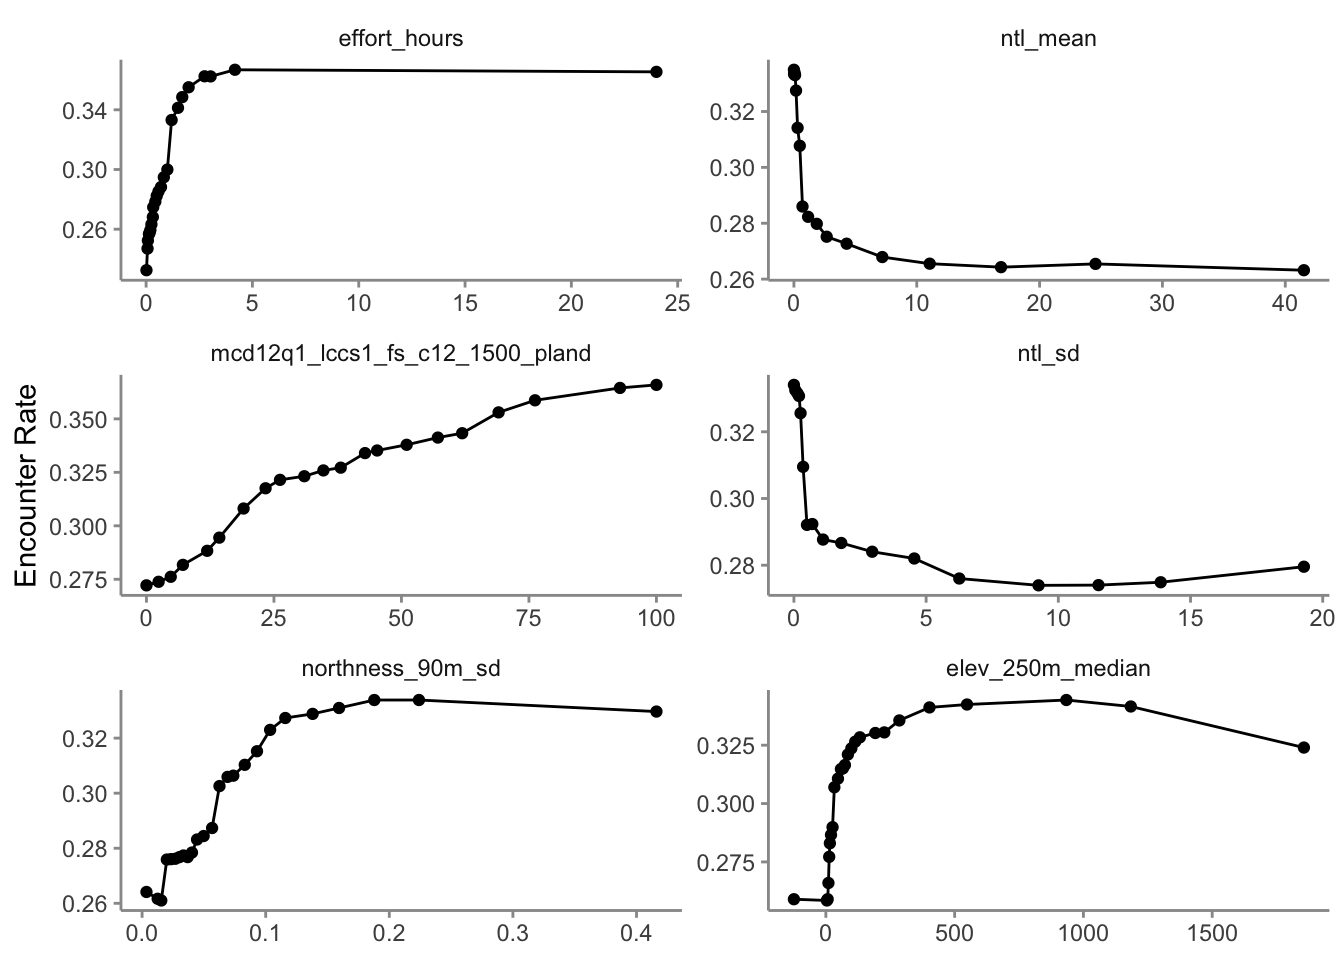
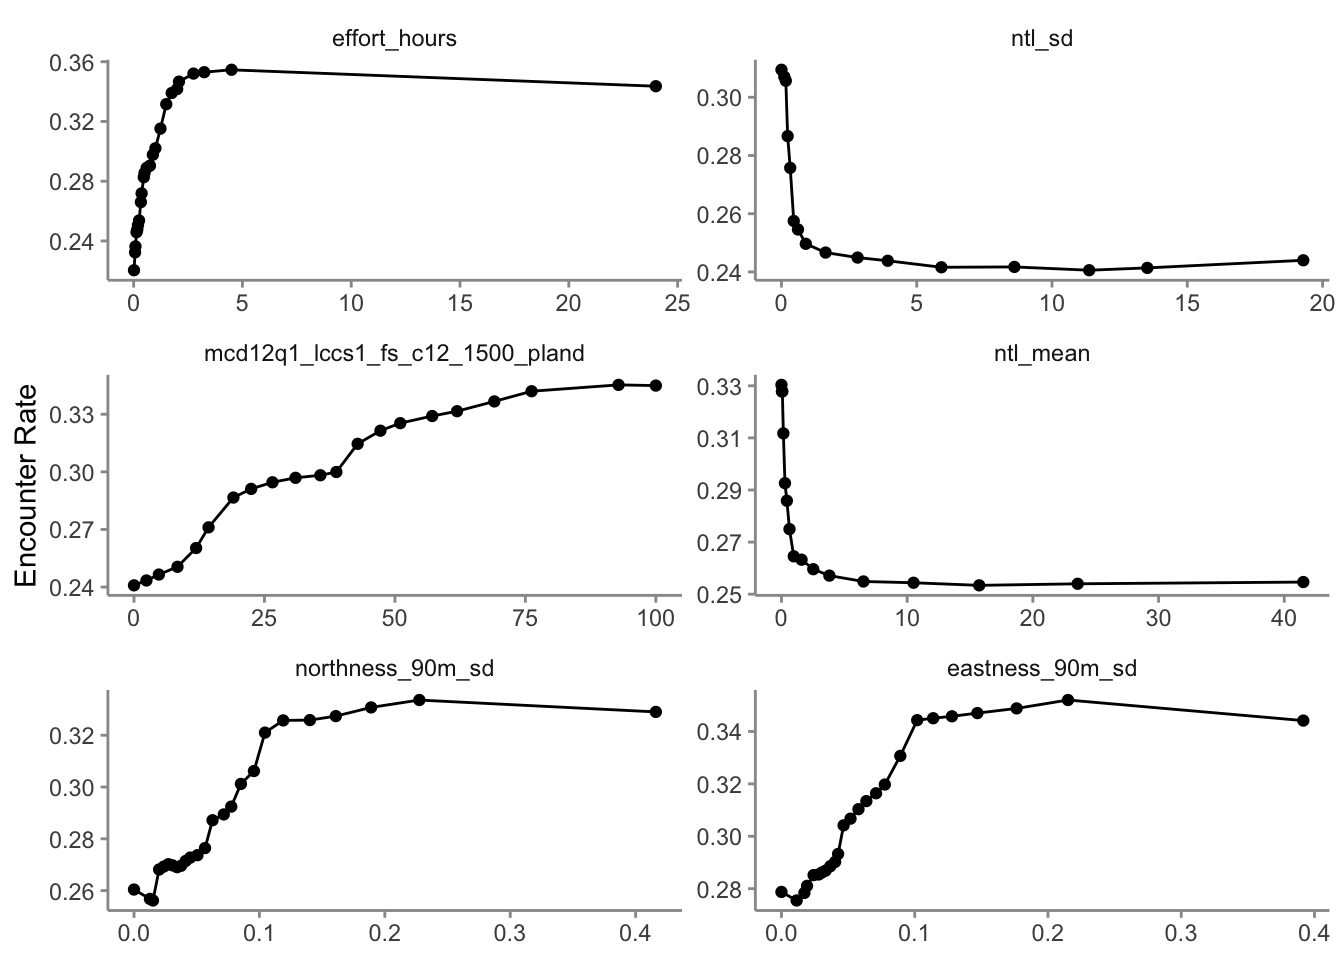
rerender

diff --git a/docs/abundance.html b/docs/abundance.html
@@ -256,22 +256,25 @@ code span.wa { color: #60a0b0; font-weight: bold; font-style: italic; } /* Warni
 <span id="cb1-11"><a href="#cb1-11" aria-hidden="true" tabindex="-1"></a><span class="fu">library</span>(sf)</span>
 <span id="cb1-12"><a href="#cb1-12" aria-hidden="true" tabindex="-1"></a><span class="fu">library</span>(terra)</span>
 <span id="cb1-13"><a href="#cb1-13" aria-hidden="true" tabindex="-1"></a></span>
-<span id="cb1-14"><a href="#cb1-14" aria-hidden="true" tabindex="-1"></a><span class="co"># detections</span></span>
-<span id="cb1-15"><a href="#cb1-15" aria-hidden="true" tabindex="-1"></a>observations <span class="ot">&lt;-</span> <span class="fu">read_parquet</span>(<span class="st">"data/ebird_observations_chile_2021.parquet"</span>) <span class="sc">%&gt;%</span> </span>
-<span id="cb1-16"><a href="#cb1-16" aria-hidden="true" tabindex="-1"></a>  <span class="fu">filter</span>(species_code <span class="sc">==</span> <span class="st">"chutap1"</span>) <span class="sc">%&gt;%</span> </span>
-<span id="cb1-17"><a href="#cb1-17" aria-hidden="true" tabindex="-1"></a>  <span class="fu">select</span>(checklist_id, valid, obs_count) <span class="sc">%&gt;%</span> </span>
-<span id="cb1-18"><a href="#cb1-18" aria-hidden="true" tabindex="-1"></a>  <span class="fu">mutate</span>(<span class="at">obs_detected =</span> 1L)</span>
-<span id="cb1-19"><a href="#cb1-19" aria-hidden="true" tabindex="-1"></a></span>
-<span id="cb1-20"><a href="#cb1-20" aria-hidden="true" tabindex="-1"></a><span class="co"># zero filled checklists</span></span>
-<span id="cb1-21"><a href="#cb1-21" aria-hidden="true" tabindex="-1"></a>checklists <span class="ot">&lt;-</span> <span class="fu">read_parquet</span>(<span class="st">"data/ebird_checklists_chile_2021.parquet"</span>) <span class="sc">%&gt;%</span></span>
-<span id="cb1-22"><a href="#cb1-22" aria-hidden="true" tabindex="-1"></a>  <span class="fu">left_join</span>(observations, <span class="at">by =</span> <span class="st">"checklist_id"</span>) <span class="sc">%&gt;%</span> </span>
-<span id="cb1-23"><a href="#cb1-23" aria-hidden="true" tabindex="-1"></a>  <span class="fu">filter</span>(<span class="fu">is.na</span>(valid) <span class="sc">|</span> valid <span class="sc">==</span> <span class="dv">1</span>) <span class="sc">%&gt;%</span> </span>
-<span id="cb1-24"><a href="#cb1-24" aria-hidden="true" tabindex="-1"></a>  <span class="fu">mutate</span>(</span>
-<span id="cb1-25"><a href="#cb1-25" aria-hidden="true" tabindex="-1"></a>    <span class="co"># checklist not in the observations dataset are non-detections</span></span>
-<span id="cb1-26"><a href="#cb1-26" aria-hidden="true" tabindex="-1"></a>    <span class="at">obs_detected =</span> <span class="fu">coalesce</span>(obs_detected <span class="sc">==</span> <span class="dv">1</span>, 0L),</span>
-<span id="cb1-27"><a href="#cb1-27" aria-hidden="true" tabindex="-1"></a>    <span class="co"># non-detections correspond to a count of 0</span></span>
-<span id="cb1-28"><a href="#cb1-28" aria-hidden="true" tabindex="-1"></a>    <span class="at">obs_count =</span> <span class="fu">ifelse</span>(obs_detected <span class="sc">==</span> <span class="dv">1</span>, obs_count, <span class="dv">0</span>)</span>
-<span id="cb1-29"><a href="#cb1-29" aria-hidden="true" tabindex="-1"></a>  )</span></code><button title="Copy to Clipboard" class="code-copy-button"><i class="bi"></i></button></pre></div>
+<span id="cb1-14"><a href="#cb1-14" aria-hidden="true" tabindex="-1"></a><span class="co"># set seed for reproducibility</span></span>
+<span id="cb1-15"><a href="#cb1-15" aria-hidden="true" tabindex="-1"></a><span class="fu">set.seed</span>(<span class="dv">1</span>)</span>
+<span id="cb1-16"><a href="#cb1-16" aria-hidden="true" tabindex="-1"></a></span>
+<span id="cb1-17"><a href="#cb1-17" aria-hidden="true" tabindex="-1"></a><span class="co"># detections</span></span>
+<span id="cb1-18"><a href="#cb1-18" aria-hidden="true" tabindex="-1"></a>observations <span class="ot">&lt;-</span> <span class="fu">read_parquet</span>(<span class="st">"data/ebird_observations_chile_2021.parquet"</span>) <span class="sc">%&gt;%</span> </span>
+<span id="cb1-19"><a href="#cb1-19" aria-hidden="true" tabindex="-1"></a>  <span class="fu">filter</span>(species_code <span class="sc">==</span> <span class="st">"chutap1"</span>) <span class="sc">%&gt;%</span> </span>
+<span id="cb1-20"><a href="#cb1-20" aria-hidden="true" tabindex="-1"></a>  <span class="fu">select</span>(checklist_id, valid, obs_count) <span class="sc">%&gt;%</span> </span>
+<span id="cb1-21"><a href="#cb1-21" aria-hidden="true" tabindex="-1"></a>  <span class="fu">mutate</span>(<span class="at">obs_detected =</span> 1L)</span>
+<span id="cb1-22"><a href="#cb1-22" aria-hidden="true" tabindex="-1"></a></span>
+<span id="cb1-23"><a href="#cb1-23" aria-hidden="true" tabindex="-1"></a><span class="co"># zero filled checklists</span></span>
+<span id="cb1-24"><a href="#cb1-24" aria-hidden="true" tabindex="-1"></a>checklists <span class="ot">&lt;-</span> <span class="fu">read_parquet</span>(<span class="st">"data/ebird_checklists_chile_2021.parquet"</span>) <span class="sc">%&gt;%</span></span>
+<span id="cb1-25"><a href="#cb1-25" aria-hidden="true" tabindex="-1"></a>  <span class="fu">left_join</span>(observations, <span class="at">by =</span> <span class="st">"checklist_id"</span>) <span class="sc">%&gt;%</span> </span>
+<span id="cb1-26"><a href="#cb1-26" aria-hidden="true" tabindex="-1"></a>  <span class="fu">filter</span>(<span class="fu">is.na</span>(valid) <span class="sc">|</span> valid <span class="sc">==</span> <span class="dv">1</span>) <span class="sc">%&gt;%</span> </span>
+<span id="cb1-27"><a href="#cb1-27" aria-hidden="true" tabindex="-1"></a>  <span class="fu">mutate</span>(</span>
+<span id="cb1-28"><a href="#cb1-28" aria-hidden="true" tabindex="-1"></a>    <span class="co"># checklist not in the observations dataset are non-detections</span></span>
+<span id="cb1-29"><a href="#cb1-29" aria-hidden="true" tabindex="-1"></a>    <span class="at">obs_detected =</span> <span class="fu">coalesce</span>(obs_detected <span class="sc">==</span> <span class="dv">1</span>, 0L),</span>
+<span id="cb1-30"><a href="#cb1-30" aria-hidden="true" tabindex="-1"></a>    <span class="co"># non-detections correspond to a count of 0</span></span>
+<span id="cb1-31"><a href="#cb1-31" aria-hidden="true" tabindex="-1"></a>    <span class="at">obs_count =</span> <span class="fu">ifelse</span>(obs_detected <span class="sc">==</span> <span class="dv">1</span>, obs_count, <span class="dv">0</span>)</span>
+<span id="cb1-32"><a href="#cb1-32" aria-hidden="true" tabindex="-1"></a>  )</span></code><button title="Copy to Clipboard" class="code-copy-button"><i class="bi"></i></button></pre></div>
 </div>
 <p>Next let’s subset the data to only observations from January and February, summer months during which we expect detectability and habitat associations to be stationary. To reduce variation in detecatbility, we’ll also subset the data to only those checklists less than 24 hours in duration and 10km in length, at speeds below 100km/h, and with 10 or fewer observers. Furthermore, we’ll only consider data from the past 10 years (2007-2021).</p>
 <div class="cell" data-layout-align="center">
@@ -309,7 +312,7 @@ code span.wa { color: #60a0b0; font-weight: bold; font-style: italic; } /* Warni
 <span id="cb4-3"><a href="#cb4-3" aria-hidden="true" tabindex="-1"></a><span class="fu">table</span>(checklists<span class="sc">$</span>type) <span class="sc">/</span> <span class="fu">nrow</span>(checklists)</span>
 <span id="cb4-4"><a href="#cb4-4" aria-hidden="true" tabindex="-1"></a><span class="co">#&gt; </span></span>
 <span id="cb4-5"><a href="#cb4-5" aria-hidden="true" tabindex="-1"></a><span class="co">#&gt;  test train </span></span>
-<span id="cb4-6"><a href="#cb4-6" aria-hidden="true" tabindex="-1"></a><span class="co">#&gt; 0.192 0.808</span></span></code><button title="Copy to Clipboard" class="code-copy-button"><i class="bi"></i></button></pre></div>
+<span id="cb4-6"><a href="#cb4-6" aria-hidden="true" tabindex="-1"></a><span class="co">#&gt; 0.208 0.792</span></span></code><button title="Copy to Clipboard" class="code-copy-button"><i class="bi"></i></button></pre></div>
 </div>
 </section>
 <section id="sec-abundance-data-sampling" class="level3" data-number="2.1.2">
@@ -335,14 +338,14 @@ code span.wa { color: #60a0b0; font-weight: bold; font-style: italic; } /* Warni
 <span id="cb6-11"><a href="#cb6-11" aria-hidden="true" tabindex="-1"></a></span>
 <span id="cb6-12"><a href="#cb6-12" aria-hidden="true" tabindex="-1"></a><span class="co"># after sampling</span></span>
 <span id="cb6-13"><a href="#cb6-13" aria-hidden="true" tabindex="-1"></a><span class="fu">nrow</span>(checklists_sampled)</span>
-<span id="cb6-14"><a href="#cb6-14" aria-hidden="true" tabindex="-1"></a><span class="co">#&gt; [1] 3169</span></span>
+<span id="cb6-14"><a href="#cb6-14" aria-hidden="true" tabindex="-1"></a><span class="co">#&gt; [1] 3187</span></span>
 <span id="cb6-15"><a href="#cb6-15" aria-hidden="true" tabindex="-1"></a><span class="fu">count</span>(checklists_sampled, obs_detected) <span class="sc">%&gt;%</span> </span>
 <span id="cb6-16"><a href="#cb6-16" aria-hidden="true" tabindex="-1"></a>  <span class="fu">mutate</span>(<span class="at">percent =</span> n <span class="sc">/</span> <span class="fu">sum</span>(n))</span>
 <span id="cb6-17"><a href="#cb6-17" aria-hidden="true" tabindex="-1"></a><span class="co">#&gt; # A tibble: 2 × 3</span></span>
 <span id="cb6-18"><a href="#cb6-18" aria-hidden="true" tabindex="-1"></a><span class="co">#&gt;   obs_detected     n percent</span></span>
 <span id="cb6-19"><a href="#cb6-19" aria-hidden="true" tabindex="-1"></a><span class="co">#&gt;          &lt;int&gt; &lt;int&gt;   &lt;dbl&gt;</span></span>
-<span id="cb6-20"><a href="#cb6-20" aria-hidden="true" tabindex="-1"></a><span class="co">#&gt; 1            0  2141   0.676</span></span>
-<span id="cb6-21"><a href="#cb6-21" aria-hidden="true" tabindex="-1"></a><span class="co">#&gt; 2            1  1028   0.324</span></span></code><button title="Copy to Clipboard" class="code-copy-button"><i class="bi"></i></button></pre></div>
+<span id="cb6-20"><a href="#cb6-20" aria-hidden="true" tabindex="-1"></a><span class="co">#&gt; 1            0  2139   0.671</span></span>
+<span id="cb6-21"><a href="#cb6-21" aria-hidden="true" tabindex="-1"></a><span class="co">#&gt; 2            1  1048   0.329</span></span></code><button title="Copy to Clipboard" class="code-copy-button"><i class="bi"></i></button></pre></div>
 </div>
 <p>So, the case controlled sampling <em>decreased</em> the overall number of checklists by a factor , but <em>increased</em> the prevalence of detections. This increase in detections will help the random forests model distinguish where birds are being observed; however, this does affect the prevalence rate of the detections in the data. As a result, the estimated encounter rate based on these subsampled data will be larger than the true encounter rate. When examining the outputs from the models it will be important to recall that we altered the prevalence rate at this stage.</p>
 </section>
@@ -410,7 +413,7 @@ code span.wa { color: #60a0b0; font-weight: bold; font-style: italic; } /* Warni
 <span id="cb11-4"><a href="#cb11-4" aria-hidden="true" tabindex="-1"></a><span class="co"># identify best threshold</span></span>
 <span id="cb11-5"><a href="#cb11-5" aria-hidden="true" tabindex="-1"></a>mcc_f1_summary <span class="ot">&lt;-</span> <span class="fu">summary</span>(mcc_f1)</span>
 <span id="cb11-6"><a href="#cb11-6" aria-hidden="true" tabindex="-1"></a><span class="co">#&gt;  mccf1_metric best_threshold</span></span>
-<span id="cb11-7"><a href="#cb11-7" aria-hidden="true" tabindex="-1"></a><span class="co">#&gt;         0.512          0.439</span></span>
+<span id="cb11-7"><a href="#cb11-7" aria-hidden="true" tabindex="-1"></a><span class="co">#&gt;         0.518          0.473</span></span>
 <span id="cb11-8"><a href="#cb11-8" aria-hidden="true" tabindex="-1"></a>threshold <span class="ot">&lt;-</span> mcc_f1_summary<span class="sc">$</span>best_threshold[<span class="dv">1</span>]</span></code><button title="Copy to Clipboard" class="code-copy-button"><i class="bi"></i></button></pre></div>
 </div>
 </section>
@@ -539,14 +542,14 @@ code span.wa { color: #60a0b0; font-weight: bold; font-style: italic; } /* Warni
 </thead>
 <tbody>
 <tr class="odd">
-<td style="text-align: right;">0.128</td>
-<td style="text-align: right;">0.422</td>
-<td style="text-align: right;">0.844</td>
-<td style="text-align: right;">0.745</td>
-<td style="text-align: right;">0.531</td>
-<td style="text-align: right;">0.573</td>
-<td style="text-align: right;">0.55</td>
-<td style="text-align: right;">0.703</td>
+<td style="text-align: right;">0.133</td>
+<td style="text-align: right;">0.291</td>
+<td style="text-align: right;">0.816</td>
+<td style="text-align: right;">0.795</td>
+<td style="text-align: right;">0.571</td>
+<td style="text-align: right;">0.605</td>
+<td style="text-align: right;">0.58</td>
+<td style="text-align: right;">0.721</td>
 </tr>
 </tbody>
 </table>
@@ -601,10 +604,10 @@ code span.wa { color: #60a0b0; font-weight: bold; font-style: italic; } /* Warni
 </thead>
 <tbody>
 <tr class="odd">
-<td style="text-align: right;">0.496</td>
-<td style="text-align: right;">0.547</td>
-<td style="text-align: right;">0.52</td>
-<td style="text-align: right;">0.561</td>
+<td style="text-align: right;">0.436</td>
+<td style="text-align: right;">0.493</td>
+<td style="text-align: right;">0.455</td>
+<td style="text-align: right;">0.515</td>
 </tr>
 </tbody>
 </table>
@@ -936,22 +939,20 @@ Checkpoint
 <span id="cb28-25"><a href="#cb28-25" aria-hidden="true" tabindex="-1"></a><span class="co"># borders</span></span>
 <span id="cb28-26"><a href="#cb28-26" aria-hidden="true" tabindex="-1"></a><span class="fu">plot</span>(ne_state_lines, <span class="at">col =</span> <span class="st">"#ffffff"</span>, <span class="at">lwd =</span> <span class="fl">0.75</span>, <span class="at">add =</span> <span class="cn">TRUE</span>)</span>
 <span id="cb28-27"><a href="#cb28-27" aria-hidden="true" tabindex="-1"></a><span class="fu">plot</span>(ne_country_lines, <span class="at">col =</span> <span class="st">"#ffffff"</span>, <span class="at">lwd =</span> <span class="fl">1.5</span>, <span class="at">add =</span> <span class="cn">TRUE</span>)</span>
-<span id="cb28-28"><a href="#cb28-28" aria-hidden="true" tabindex="-1"></a><span class="fu">plot</span>(study_region, <span class="at">border =</span> <span class="st">"#000000"</span>, <span class="at">col =</span> <span class="cn">NA</span>, <span class="at">lwd =</span> <span class="dv">1</span>, <span class="at">add =</span> <span class="cn">TRUE</span>)</span>
-<span id="cb28-29"><a href="#cb28-29" aria-hidden="true" tabindex="-1"></a><span class="co">#&gt; Warning in plot.sf(study_region, border = "#000000", col = NA, lwd = 1, :</span></span>
-<span id="cb28-30"><a href="#cb28-30" aria-hidden="true" tabindex="-1"></a><span class="co">#&gt; ignoring all but the first attribute</span></span>
-<span id="cb28-31"><a href="#cb28-31" aria-hidden="true" tabindex="-1"></a><span class="fu">box</span>()</span>
-<span id="cb28-32"><a href="#cb28-32" aria-hidden="true" tabindex="-1"></a></span>
-<span id="cb28-33"><a href="#cb28-33" aria-hidden="true" tabindex="-1"></a><span class="co"># legend</span></span>
-<span id="cb28-34"><a href="#cb28-34" aria-hidden="true" tabindex="-1"></a><span class="fu">image.plot</span>(<span class="at">zlim =</span> <span class="fu">c</span>(<span class="dv">0</span>, <span class="dv">1</span>), <span class="at">legend.only =</span> <span class="cn">TRUE</span>,</span>
-<span id="cb28-35"><a href="#cb28-35" aria-hidden="true" tabindex="-1"></a>           <span class="at">col =</span> pal, <span class="at">breaks =</span> <span class="fu">seq</span>(<span class="dv">0</span>, <span class="dv">1</span>, <span class="at">length.out =</span> <span class="fu">length</span>(brks)),</span>
-<span id="cb28-36"><a href="#cb28-36" aria-hidden="true" tabindex="-1"></a>           <span class="at">smallplot =</span> <span class="fu">c</span>(<span class="fl">0.90</span>, <span class="fl">0.92</span>, <span class="fl">0.25</span>, <span class="fl">0.75</span>),</span>
-<span id="cb28-37"><a href="#cb28-37" aria-hidden="true" tabindex="-1"></a>           <span class="at">horizontal =</span> <span class="cn">FALSE</span>,</span>
-<span id="cb28-38"><a href="#cb28-38" aria-hidden="true" tabindex="-1"></a>           <span class="at">axis.args =</span> <span class="fu">list</span>(<span class="at">at =</span> <span class="fu">c</span>(<span class="dv">0</span>, <span class="fl">0.5</span>, <span class="dv">1</span>), <span class="at">labels =</span> lbls,</span>
-<span id="cb28-39"><a href="#cb28-39" aria-hidden="true" tabindex="-1"></a>                            <span class="at">fg =</span> <span class="st">"black"</span>, <span class="at">col.axis =</span> <span class="st">"black"</span>,</span>
-<span id="cb28-40"><a href="#cb28-40" aria-hidden="true" tabindex="-1"></a>                            <span class="at">cex.axis =</span> <span class="dv">2</span>, <span class="at">lwd.ticks =</span> <span class="dv">0</span>),</span>
-<span id="cb28-41"><a href="#cb28-41" aria-hidden="true" tabindex="-1"></a>           <span class="at">legend.args =</span> <span class="fu">list</span>(<span class="at">text =</span> <span class="st">"Chucao Tapaculo Relative Abundance"</span>,</span>
-<span id="cb28-42"><a href="#cb28-42" aria-hidden="true" tabindex="-1"></a>                              <span class="at">side =</span> <span class="dv">2</span>, <span class="at">col =</span> <span class="st">"black"</span>,</span>
-<span id="cb28-43"><a href="#cb28-43" aria-hidden="true" tabindex="-1"></a>                              <span class="at">cex =</span> <span class="dv">3</span>, <span class="at">line =</span> <span class="dv">2</span>))</span></code><button title="Copy to Clipboard" class="code-copy-button"><i class="bi"></i></button></pre></div>
+<span id="cb28-28"><a href="#cb28-28" aria-hidden="true" tabindex="-1"></a><span class="fu">plot</span>(study_region_proj, <span class="at">border =</span> <span class="st">"#000000"</span>, <span class="at">col =</span> <span class="cn">NA</span>, <span class="at">lwd =</span> <span class="dv">1</span>, <span class="at">add =</span> <span class="cn">TRUE</span>)</span>
+<span id="cb28-29"><a href="#cb28-29" aria-hidden="true" tabindex="-1"></a><span class="fu">box</span>()</span>
+<span id="cb28-30"><a href="#cb28-30" aria-hidden="true" tabindex="-1"></a></span>
+<span id="cb28-31"><a href="#cb28-31" aria-hidden="true" tabindex="-1"></a><span class="co"># legend</span></span>
+<span id="cb28-32"><a href="#cb28-32" aria-hidden="true" tabindex="-1"></a><span class="fu">image.plot</span>(<span class="at">zlim =</span> <span class="fu">c</span>(<span class="dv">0</span>, <span class="dv">1</span>), <span class="at">legend.only =</span> <span class="cn">TRUE</span>,</span>
+<span id="cb28-33"><a href="#cb28-33" aria-hidden="true" tabindex="-1"></a>           <span class="at">col =</span> pal, <span class="at">breaks =</span> <span class="fu">seq</span>(<span class="dv">0</span>, <span class="dv">1</span>, <span class="at">length.out =</span> <span class="fu">length</span>(brks)),</span>
+<span id="cb28-34"><a href="#cb28-34" aria-hidden="true" tabindex="-1"></a>           <span class="at">smallplot =</span> <span class="fu">c</span>(<span class="fl">0.88</span>, <span class="fl">0.90</span>, <span class="fl">0.2</span>, <span class="fl">0.8</span>),</span>
+<span id="cb28-35"><a href="#cb28-35" aria-hidden="true" tabindex="-1"></a>           <span class="at">horizontal =</span> <span class="cn">FALSE</span>,</span>
+<span id="cb28-36"><a href="#cb28-36" aria-hidden="true" tabindex="-1"></a>           <span class="at">axis.args =</span> <span class="fu">list</span>(<span class="at">at =</span> <span class="fu">c</span>(<span class="dv">0</span>, <span class="fl">0.5</span>, <span class="dv">1</span>), <span class="at">labels =</span> lbls,</span>
+<span id="cb28-37"><a href="#cb28-37" aria-hidden="true" tabindex="-1"></a>                            <span class="at">fg =</span> <span class="st">"black"</span>, <span class="at">col.axis =</span> <span class="st">"black"</span>,</span>
+<span id="cb28-38"><a href="#cb28-38" aria-hidden="true" tabindex="-1"></a>                            <span class="at">cex.axis =</span> <span class="fl">0.75</span>, <span class="at">lwd.ticks =</span> <span class="fl">0.5</span>),</span>
+<span id="cb28-39"><a href="#cb28-39" aria-hidden="true" tabindex="-1"></a>           <span class="at">legend.args =</span> <span class="fu">list</span>(<span class="at">text =</span> <span class="st">"Chucao Tapaculo Relative Abundance"</span>,</span>
+<span id="cb28-40"><a href="#cb28-40" aria-hidden="true" tabindex="-1"></a>                              <span class="at">side =</span> <span class="dv">2</span>, <span class="at">col =</span> <span class="st">"black"</span>,</span>
+<span id="cb28-41"><a href="#cb28-41" aria-hidden="true" tabindex="-1"></a>                              <span class="at">cex =</span> <span class="dv">1</span>, <span class="at">line =</span> <span class="dv">0</span>))</span></code><button title="Copy to Clipboard" class="code-copy-button"><i class="bi"></i></button></pre></div>
 <div class="cell-output-display">
 <div class="quarto-figure quarto-figure-center">
 <figure class="figure">
